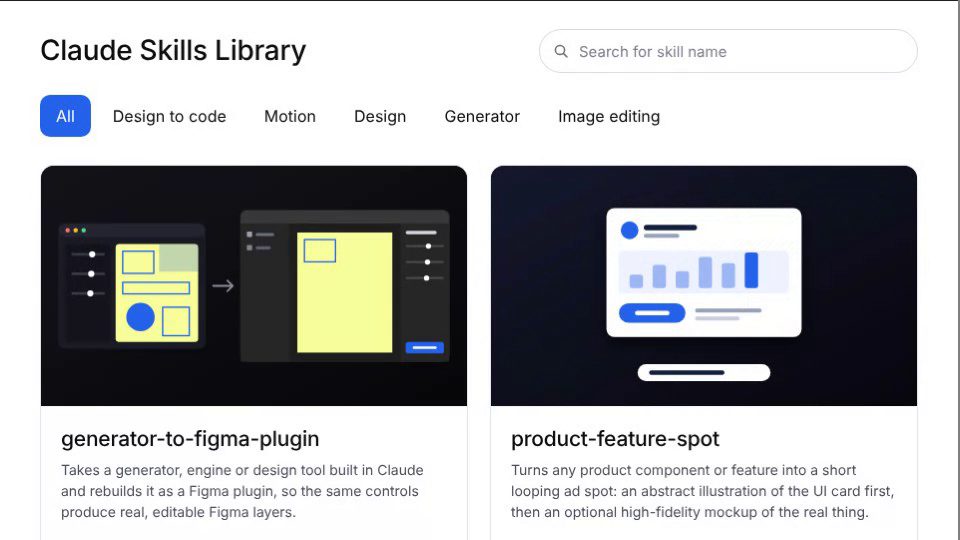
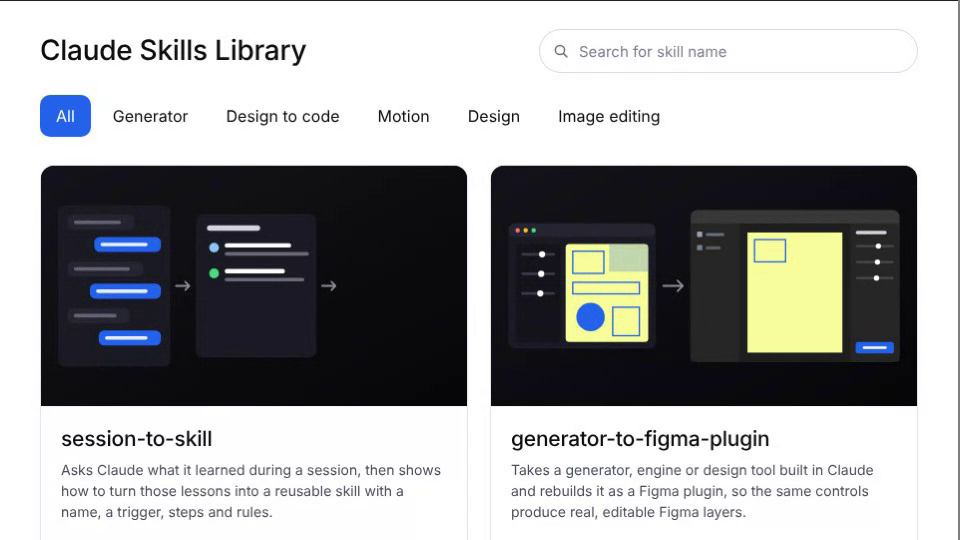
Skills Library: add session-to-skill (#516)
Claude-Session: https://claude.ai/code/session_01AHeBdzfwQsZW7SD9XQB6B1

diff --git a/skills-library/index.html b/skills-library/index.html
@@ -130,6 +130,14 @@ var ICON={
 };
 var SKILLS=[
   {
+    title:'session-to-skill',
+    desc:'Asks Claude what it learned during a session, then shows how to turn those lessons into a reusable skill with a name, a trigger, steps and rules.',
+    category:'Generator', cIcon:'image',
+    use:'Capturing what worked', uIcon:'design',
+    art:'art/session-to-skill.svg',
+    alt:'A conversation on the left is distilled into a list of lessons in the middle, which becomes a SKILL.md file on the right'
+  },
+  {
     title:'generator-to-figma-plugin',
     desc:'Takes a generator, engine or design tool built in Claude and rebuilds it as a Figma plugin, so the same controls produce real, editable Figma layers.',
     category:'Design to code', cIcon:'design',
@@ -284,6 +292,9 @@ var EX={
 'asset-generator-engine':[['blog-banner-studio','Blog Banner Studio'],['conference-post-generator','Conference Post Creator'],['lifecycle-image-engine','Lifecycle Image Studio'],['hero-banner-engine','Banner Template Studio'],['postmark-ribbon-engine','Postmark Awards Ribbon Engine'],['grubclub-end-card','Grubclub End Card Maker'],['https://kristynagottvald.github.io/sketches/ribbon-text/','Postmark Awards','https://kristynagottvald.github.io/sketches/clips/ribbon-text.webp','https://kristynagottvald.github.io/sketches/ribbon-text/thumbnail.jpg'],['https://kristynagottvald.github.io/sketches/pattern-generator/','Pattern Generator','https://kristynagottvald.github.io/sketches/clips/pattern-generator.webp','https://kristynagottvald.github.io/sketches/pattern-generator/thumbnail.jpg']]};
 var RM=window.matchMedia&&matchMedia('(prefers-reduced-motion: reduce)').matches;
 var D={
+'session-to-skill':{saves:'Remembering what went right in a session and re-explaining it next time',work:["Looking back through a long session to work out what actually mattered","Re-explaining the same corrections and preferences to Claude in every new session","Writing a skill file from scratch and deciding what belongs in it"],
+ p:["Long sessions teach you a lot: which steps worked, what went wrong the first time, and what you kept asking Claude to fix. This skill makes that knowledge easy to keep. It starts by asking Claude a simple question: what did you learn in this session?","Claude answers by looking back over the work: the steps that worked, the mistakes that were corrected, the preferences you repeated, and the decisions you made along the way. Then it helps you decide whether those lessons are worth a skill, which is usually the case when the task will come up again and isn’t obvious.","From there it shows how to build the skill. It picks a short hyphenated name, writes when the skill should be used, lays out the steps in order, and turns your corrections into clear rules. The result is a skill file you can save with your project, so every future session starts with what this one learned."],
+ prompts:["Use session-to-skill: what did you learn in this session, and how would we build a skill around it?","Look back over this session and list the corrections I made, then turn them into rules for a skill.","Draft a SKILL.md from what we just built, with a name, when to use it, the steps and the rules."]},
 'generator-to-figma-plugin':{saves:'Rebuilding a generator’s output by hand in Figma, over and over',work:["Recreating what the generator makes as layers in Figma, shape by shape, every time","Working out how a Figma plugin is put together: the manifest, the panel and the code that edits the file","Rewriting the drawing code so it makes frames, shapes and text instead of pixels, and passing the controls’ values across"],
  p:["This skill takes a generator, engine or design tool that was built in Claude, usually as a single web page with controls and a preview, and rebuilds it as a Figma plugin. Designers can then use it without leaving Figma.","It splits the tool into two parts. The controls and live preview become the plugin’s panel. The code that makes the design is reworked so that, instead of painting pixels on a canvas, it builds real Figma layers: frames, shapes, text and images that can be edited afterwards. The two parts talk to each other by messages, so changing a control updates what is placed on the page.","It also sets up the plugin’s manifest, loads the fonts the design needs before any text is added, and explains how to test the plugin by importing it into Figma. The original tool keeps working as it did, so you end up with both."],
  prompts:["Use generator-to-figma-plugin to turn this generator into a Figma plugin: [path or paste the code].","Keep the controls as the plugin panel and add a button that places the result on the current page.","Convert this canvas engine’s output into real Figma layers (frames, shapes and text) instead of an image."]},
@@ -374,6 +385,7 @@ var GROUPS=[
 ['3d','lowpoly','poly','scene','diorama','p5','webgl','landscape','landmark','desert','night','sunset','day','orbit'],
 ['ad','ads','paid','campaign','landing','utm','linkedin','google','instagram','tiktok','metric','ctr','analytic','conversion','funnel'],
 ['feature','spot','product','short','promo','wireframe','illustration','abstract','launch','announce'],
+['skill','learn','lesson','reflect','session','retro','capture','repeat','repeatable','mistake','correction','remember','process','write','document','reuse'],
 ['plugin','plug-in','extension','port','figma','tool','generator','engine','layer','editable']
 ];
 function stem(w){w=w.toLowerCase().replace(/[^a-z0-9+-]/g,'');if(w.length>5&&/ing$/.test(w))w=w.slice(0,-3);else if(w.length>4&&/ed$/.test(w))w=w.slice(0,-2);else if(w.length>4&&/es$/.test(w))w=w.slice(0,-2);else if(w.length>3&&/s$/.test(w)&&!/ss$/.test(w))w=w.slice(0,-1);return w}
